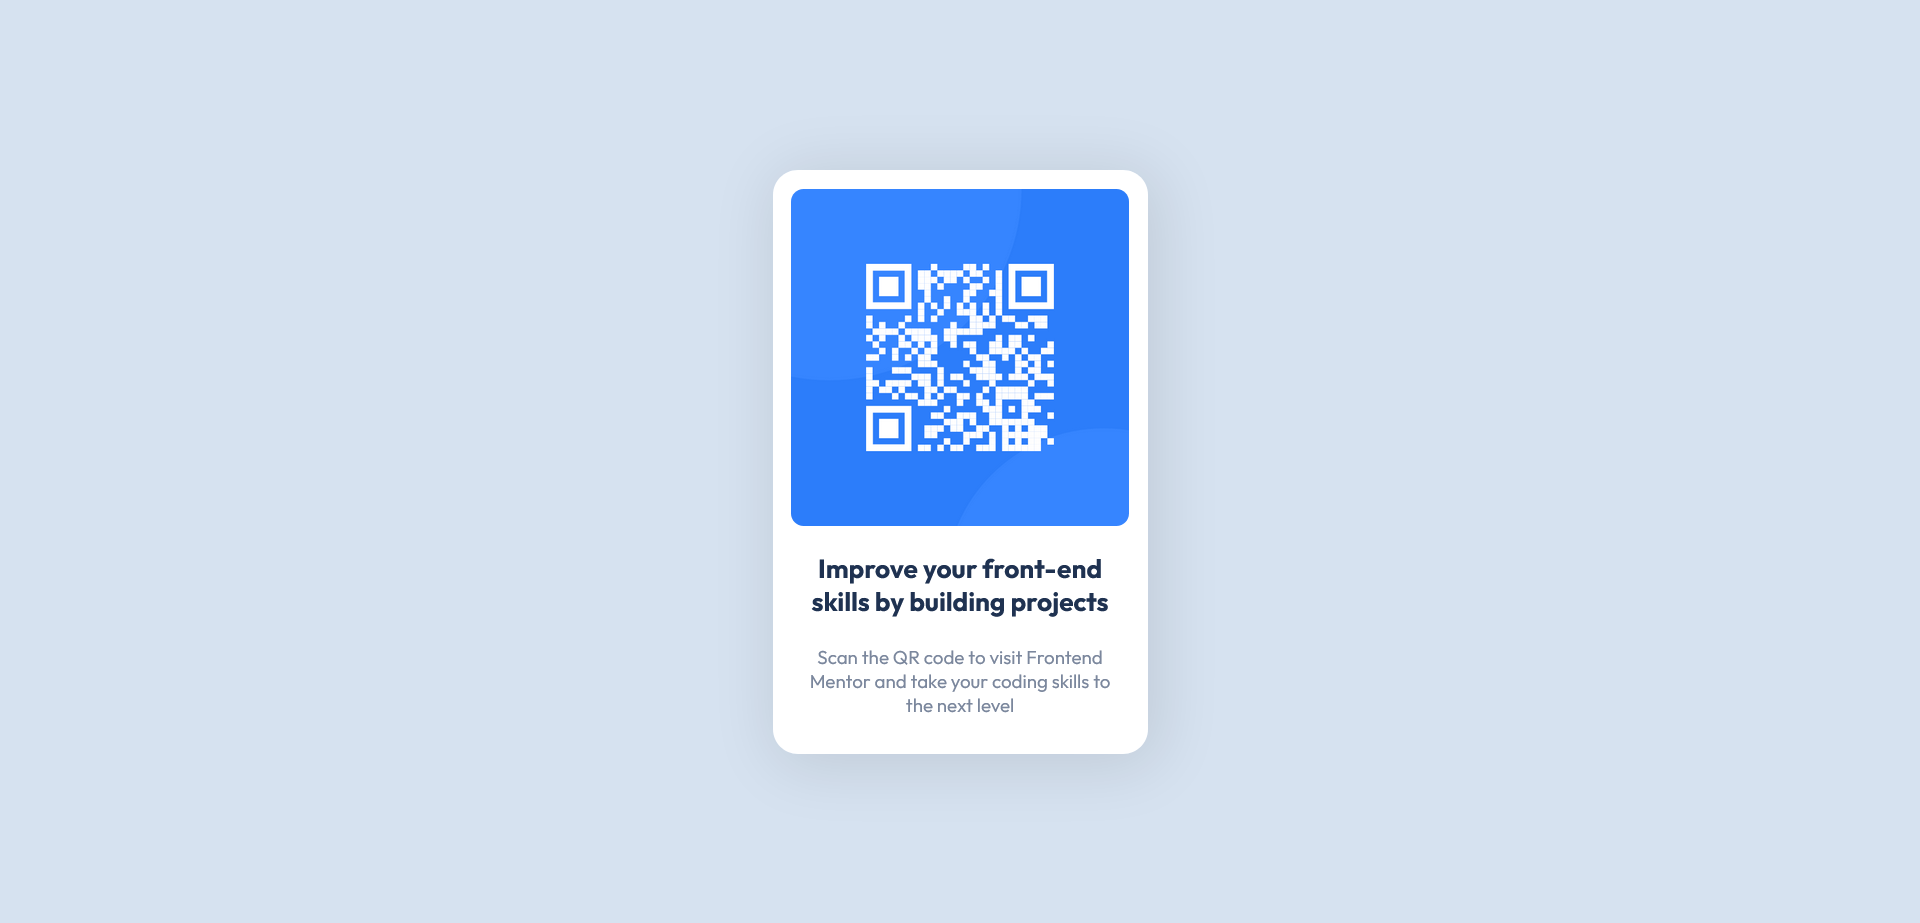
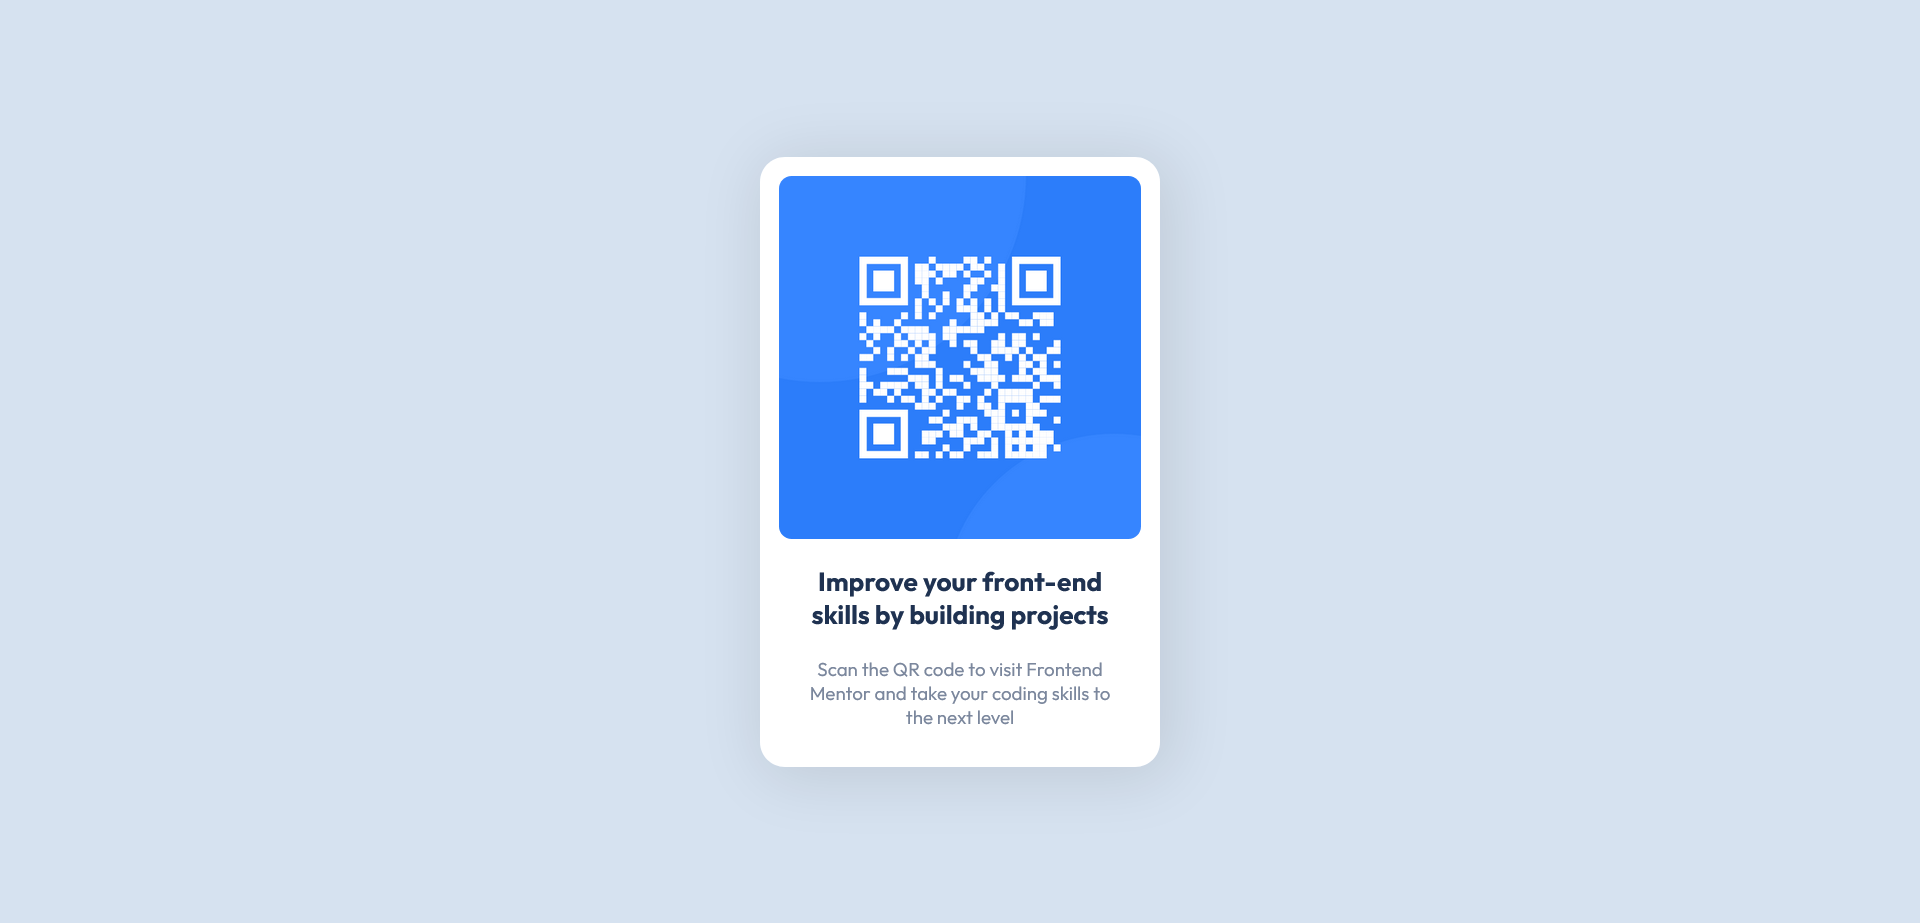
fix width

Changed region(s): [[0.375, 0.1517, 0.625, 0.8191], [0.4062, 0.8191, 0.5938, 0.8494]]

diff --git a/css/style.css b/css/style.css
@@ -23,7 +23,7 @@ body {
     font: var(--font-outfit);
     background-color: var(--white);
     box-sizing: border-box;
-    max-width: 300px;
+    max-width: 320px;
     align-self: center;
     margin: 0 auto;
     padding: 15px;
@@ -45,10 +45,10 @@ body {
     font-size: 140%;
     color: var(--dark-blue);
     padding: 0;
-    margin: 1em 0.5em;
+    margin: 1em;
 }
 
 .qr-code-component .qr-text {
     padding: 0;
-    margin: 1em 0.5em;
+    margin: 1em;
 }
